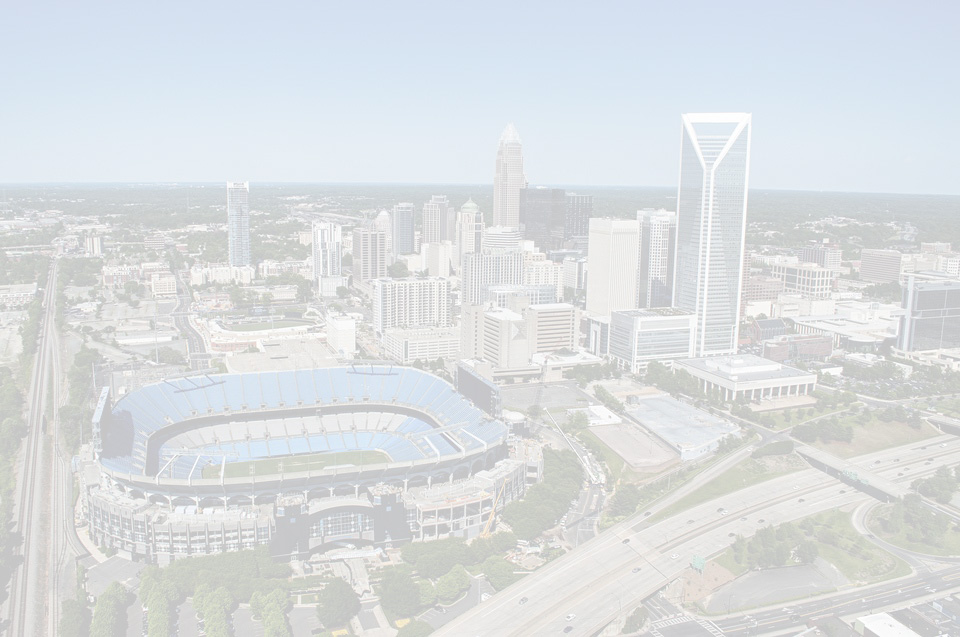
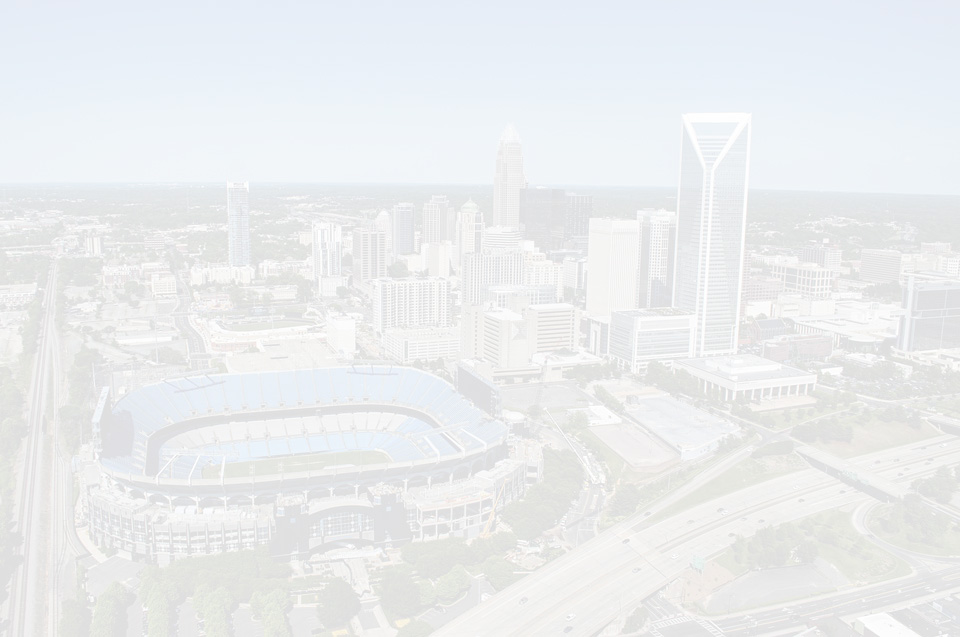
George

diff --git a/index.html b/index.html
@@ -38,7 +38,7 @@
 
 		<!-- TOP SECTION -->
 
-		<div class="container-fluid" style="background-image: url('charlotte4.jpg'); background-size: cover; background-position: center; background-repeat: no-repeat;">
+		<div class="container-fluid" style="background-image: url('charlotte3.jpg'); background-size: cover; background-position: center; background-repeat: no-repeat;">
 
 			<div class="jomo-logo container-fluid">
 
